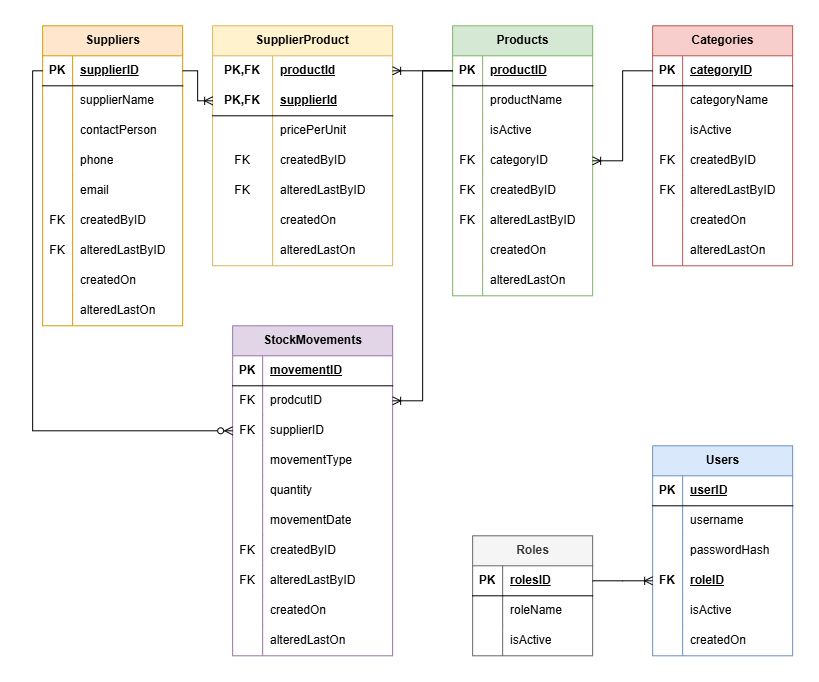
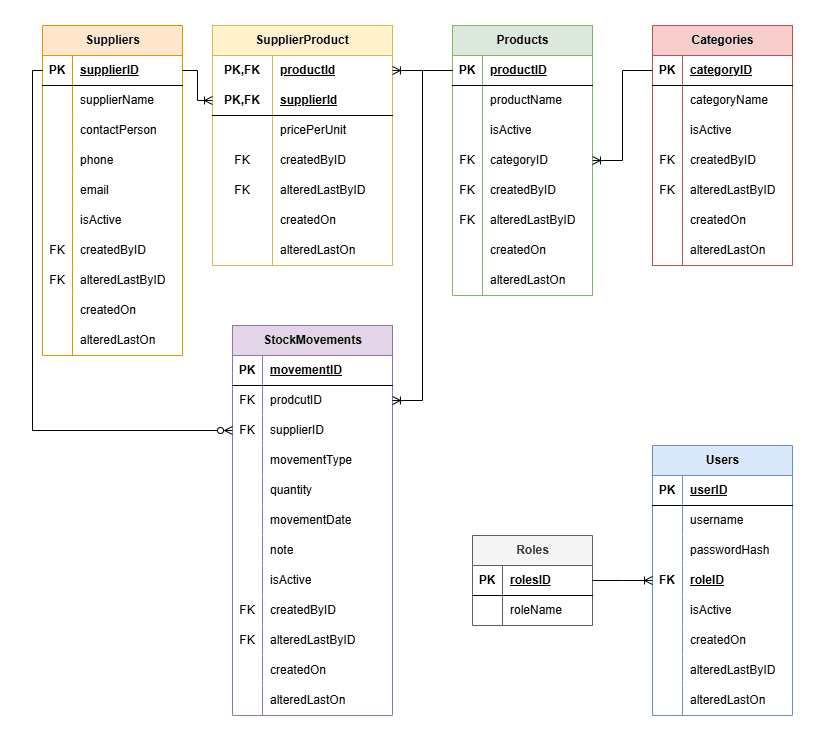
Edited: Updated README file.

diff --git a/README.md b/README.md
@@ -1,35 +1,100 @@
 # Warehouse Management System
 
-## Entity Relationship Diagramm (ERD)
-![Enrity Relationship Diagramm](./screenshots/enitity-relationship-diagramm.png)
+<div align="center">
+
+[![C#](https://custom-icon-badges.demolab.com/badge/C%23-%23239120.svg?logo=cshrp&logoColor=white)](#) [![.NET](https://img.shields.io/badge/.NET-512BD4?logo=dotnet&logoColor=fff)](#)
+
+</div>
+
+## Overview
+
+A desktop warehouse management application built with **C# WinForms** and **SQL Server** with role-based access and soft-delete with audit trails.
+
+Built as a personal project to practice C#, WinFowms, T-SQL, and layered architecture.
+
+### Entity Relationship Diagram (ERD)
+![Entity Relationship Diagram](./screenshots/enitity-relationship-diagramm.png)
 
 > [!NOTE]
 > The relationships for the **audit attributes** (`createdByID` and `alteredByID`) are not displayed to avoid visual clutter. Each `createdByID` and `alteredByID` is a FK connected to the `Users.userID` field.
 
-## Icons
-<a href="https://www.flaticon.com/free-icons/search" title="search icons">Search icons created by Catalin Fertu - Flaticon</a>
-<a href="https://www.flaticon.com/free-icons/plus" title="plus icons">Plus icons created by Fuzzee - Flaticon</a>
-<a href="https://www.flaticon.com/free-icons/pencil" title="pencil icons">Pencil icons created by alkhalifi design - Flaticon</a>
-<a href="https://www.flaticon.com/free-icons/close" title="close icons">Close icons created by ariefstudio - Flaticon</a>
-<a href="https://www.flaticon.com/free-icons/refresh" title="refresh icons">Refresh icons created by Arkinasi - Flaticon</a>
-<a href="https://www.flaticon.com/free-icons/export" title="export icons">Export icons created by Shashank Singh - Flaticon</a>
-https://smallpngtools.com/change-png-color.php
-<a href="https://www.flaticon.com/free-icons/user" title="user icons">User icons created by Magnific - Flaticon</a>
-<a href="https://www.flaticon.com/free-icons/logout" title="logout icons">Logout icons created by Pixel perfect - Flaticon</a>
-<a href="https://www.flaticon.com/free-icons/password" title="password icons">Password icons created by Pixel perfect - Flaticon</a>
-<a href="https://www.flaticon.com/free-icons/price" title="price icons">Price icons created by Magnific - Flaticon</a>
-<a href="https://www.flaticon.com/free-icons/supplier" title="supplier icons">Supplier icons created by Slameticon - Flaticon</a>
-<a href="https://www.flaticon.com/free-icons/categories" title="categories icons">Categories icons created by Creatype - Flaticon</a>
-<a href="https://www.flaticon.com/free-icons/user" title="user icons">User icons created by Dreamstale - Flaticon</a>
-<a href="https://www.flaticon.com/free-icons/warehouse" title="warehouse icons">Warehouse icons created by kawalanicon - Flaticon</a>
-https://www.magnific.com/author/atif-arshad/icons -  Inbox + Outbox
-https://www.magnific.com/icon/filters_17445778#fromView=search&page=1&position=8&uuid=b79c5de2-6f41-40af-81f1-7a19d64aa56c
-<a target="_blank" href="https://icons8.com/icon/83326/home">Home</a> icon by <a target="_blank" href="https://icons8.com">Icons8</a>
+### Screenshots:
+
+#### Dashboard (home view):
+![Home dashboard](./screenshots/home-screen.png)
+
+#### Products:
+![Products view with supplier details](./screenshots/products.gif)
+
+#### Stock Movements:
+![Stock movements list with filters](./screenshots/stock-movements.png)
+
+#### Receive stock (dialog):
+![Receive stock (dialog)](./screenshots/receive-stock.png)
+
+### Features:
+- CRUD functionality for all tables, e.g., product CRUD, supplier CRUD.
+- Many-to-Many supplier <-> product links with per-supplier pricing.
+- Soft delete with restore prompts and filtered unique indexes.
+- Role-based UI (Admin, Warehouse Worker, Accountant).
+- Search, filter, and CSV exports.
+
+## Tech Stack
+- C# / .NET Framework 4.8
+- Windows Forms
+- SQL Server (Express)
+- BCrypt password hashing
+- LINQ for in-memory filtering
+
+## Setup
+1. Run `database-scrips/01_create_scripts.sql` in SSMS.
+2. Run `database-scrips/02_insert_sample_data.sql` to seed sample data.
+3. Open the solution in Visual Studio, update the connection string in `App.config` if needed.
+
+**Default login:** `admin` / `hash_123`
 
 ## Project Structure
 ```
 .
-├── database-scrips         # sql scripts for tables and sample data
-├── screenshots             # images used in README
+├── /database-scrips         # sql scripts for tables and sample data
+├── /icons                   # icons used in the application
+├── /screenshots             # images used in README
+├── /WarehouseManagementSystem
+|    ├── /Data               # repositories (one per table)
+|    ├── /Forms              # forms and dialogs
+|    ├── /Helpers            # password hashing
+|    ├── /Models             # POCO classes
+|    ├── /Properties
+|    ├── /Resources          
+|    ├── /Session            # logged-in user state
+|    ├── /Views              # user controls embedded in the main window
+|    ├── App.config
+|    ├── Program.cs
+|    ├── WarehouseManagementSystem.csproj
+|    ├── WarehouseManagementSystem.slnx
+|    ├── packages.config
+├── .gitignore
 └── README.md       
 ```
+
+## Icons
+Icons used in this project:
+- <a href="https://www.flaticon.com/free-icons/search" title="search icons">Search icons created by Catalin Fertu - Flaticon</a>
+- <a href="https://www.flaticon.com/free-icons/plus" title="plus icons">Plus icons created by Fuzzee - Flaticon</a>
+- <a href="https://www.flaticon.com/free-icons/pencil" title="pencil icons">Pencil icons created by alkhalifi design - Flaticon</a>
+- <a href="https://www.flaticon.com/free-icons/close" title="close icons">Close icons created by ariefstudio - Flaticon</a>
+- <a href="https://www.flaticon.com/free-icons/refresh" title="refresh icons">Refresh icons created by Arkinasi - Flaticon</a>
+- <a href="https://www.flaticon.com/free-icons/export" title="export icons">Export icons created by Shashank Singh - Flaticon</a>
+- <a href="https://www.flaticon.com/free-icons/user" title="user icons">User icons created by Magnific - Flaticon</a>
+- <a href="https://www.flaticon.com/free-icons/logout" title="logout icons">Logout icons created by Pixel perfect - Flaticon</a>
+- <a href="https://www.flaticon.com/free-icons/password" title="password icons">Password icons created by Pixel perfect - Flaticon</a>
+- <a href="https://www.flaticon.com/free-icons/price" title="price icons">Price icons created by Magnific - Flaticon</a>
+- <a href="https://www.flaticon.com/free-icons/supplier" title="supplier icons">Supplier icons created by Slameticon - Flaticon</a>
+- <a href="https://www.flaticon.com/free-icons/categories" title="categories icons">Categories icons created by Creatype - Flaticon</a>
+- <a href="https://www.flaticon.com/free-icons/user" title="user icons">User icons created by Dreamstale - Flaticon</a>
+- <a href="https://www.flaticon.com/free-icons/warehouse" title="warehouse icons">Warehouse icons created by kawalanicon - Flaticon</a>
+- <a href="https://www.magnific.com/author/atif-arshad/icons" title="inbox and outbox icons">Inbox & Outbox icons created by atif-arshad - Magnific</a>
+- <a href="https://www.magnific.com/icon/filters_17445778#fromView=search&page=1&position=8&uuid=b79c5de2-6f41-40af-81f1-7a19d64aa56c" title="filter icon">Filter icon created by whocon - Magnific</a>
+<a href="https://icons8.com/icon/83326/home" title="home icon">Home icon - Icons8</a>
+
+Some icons original colors where changed from black to white using `https://smallpngtools.com/change-png-color.php` tool.
